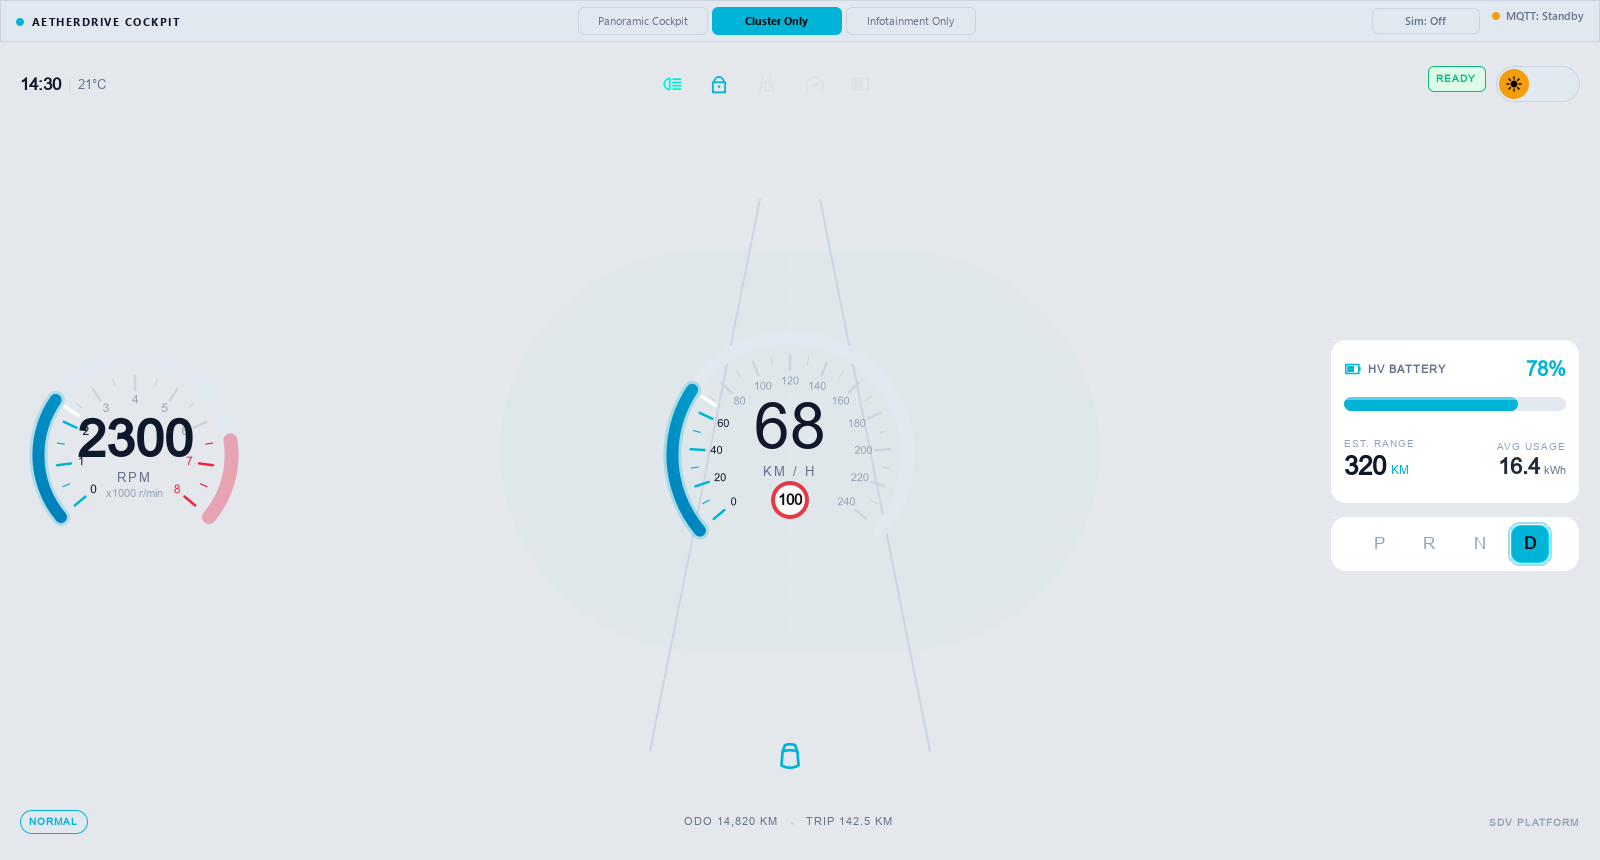
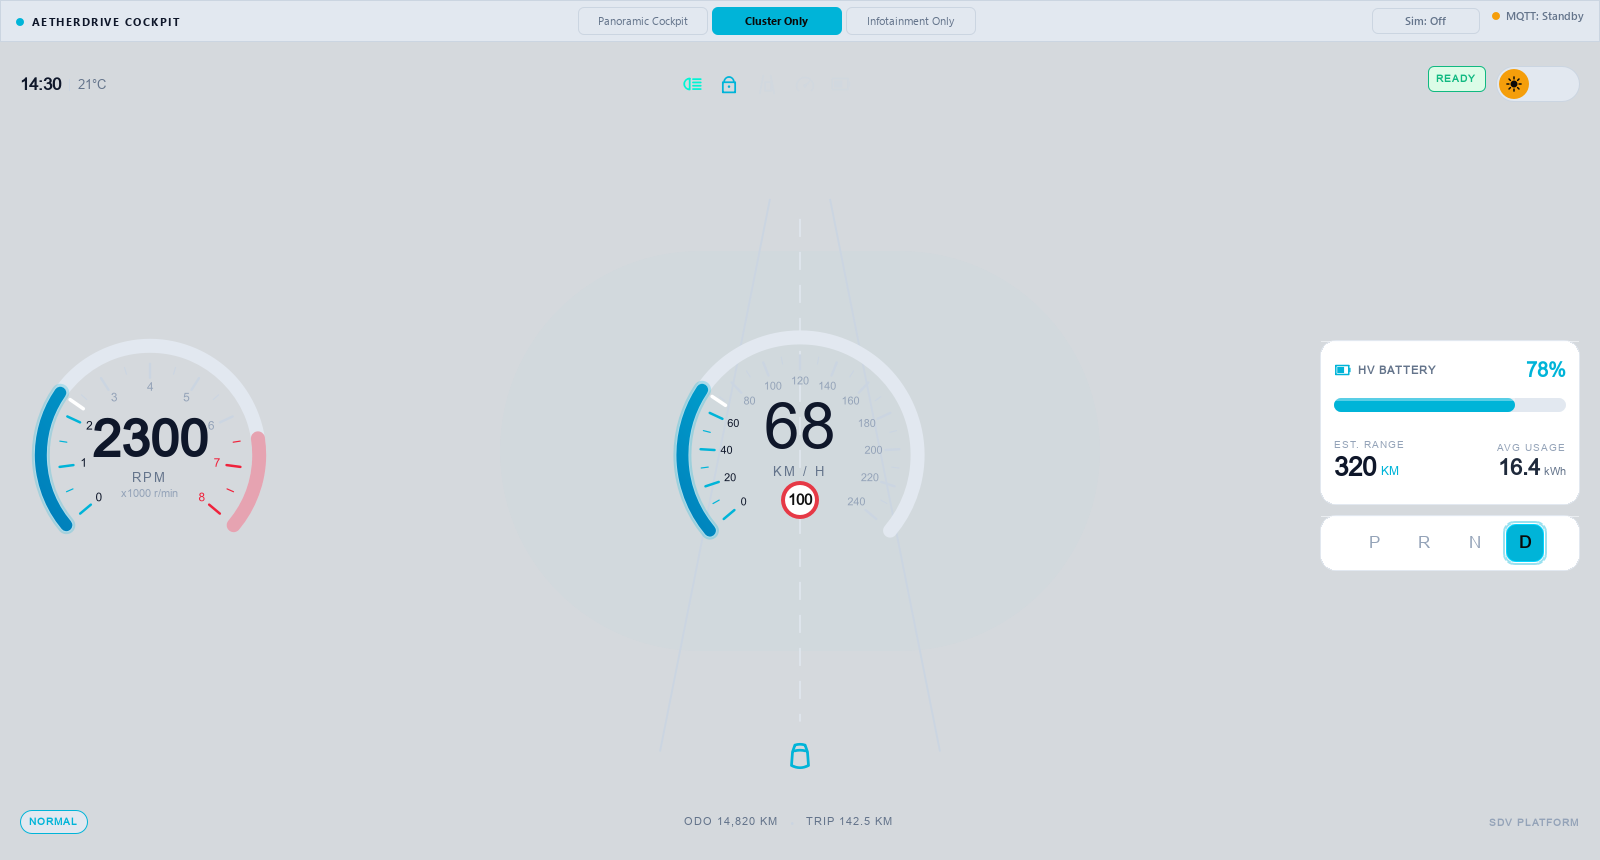
fix(hmi): responsive layout adaptation, canvas antialiasing, and robust mqtt retry loop

diff --git a/hmi/qml/infotainment/HomeScreen.qml b/hmi/qml/infotainment/HomeScreen.qml
@@ -39,6 +39,7 @@ Item {
             Item { Layout.fillWidth: true }
 
             AetherCard {
+                visible: root.width >= 480
                 implicitWidth: 160
                 implicitHeight: 40
                 isNightMode: root.isNightMode
@@ -104,6 +105,7 @@ Item {
                         Item { Layout.fillWidth: true }
                         Text {
                             text: "18 MIN REMAINING"
+                            visible: root.width >= 480
                             font.pixelSize: 11
                             font.weight: Font.Bold
                             font.family: "Segoe UI, Inter, sans-serif"
@@ -113,17 +115,21 @@ Item {
 
                     Text {
                         text: "Tech Innovation Hub"
-                        font.pixelSize: 19
+                        font.pixelSize: root.width < 500 ? 16 : 19
                         font.weight: Font.Bold
                         font.family: "Segoe UI, Inter, sans-serif"
                         color: root.isNightMode ? "#FFFFFF" : "#0F172A"
+                        elide: Text.ElideRight
+                        Layout.fillWidth: true
                     }
 
                     Text {
                         text: "In 400m turn right onto Quantum Boulevard"
-                        font.pixelSize: 13
+                        font.pixelSize: root.width < 500 ? 11 : 13
                         font.family: "Segoe UI, Inter, sans-serif"
                         color: root.isNightMode ? "#94A3B8" : "#64748B"
+                        elide: Text.ElideRight
+                        Layout.fillWidth: true
                     }
 
                     Item { Layout.fillHeight: true }
@@ -187,19 +193,24 @@ Item {
                         }
 
                         Column {
+                            Layout.fillWidth: true
                             spacing: 2
                             Text {
                                 text: "Starlight Velocity"
-                                font.pixelSize: 17
+                                font.pixelSize: root.width < 500 ? 15 : 17
                                 font.weight: Font.Bold
                                 font.family: "Segoe UI, Inter, sans-serif"
                                 color: root.isNightMode ? "#FFFFFF" : "#0F172A"
+                                elide: Text.ElideRight
+                                width: parent.width
                             }
                             Text {
                                 text: "CyberSynth Orchestra • Hi-Res Audio"
-                                font.pixelSize: 12
+                                font.pixelSize: root.width < 500 ? 11 : 12
                                 font.family: "Segoe UI, Inter, sans-serif"
                                 color: root.isNightMode ? "#94A3B8" : "#64748B"
+                                elide: Text.ElideRight
+                                width: parent.width
                             }
                         }
                     }
@@ -254,7 +265,7 @@ Item {
 
                     RowLayout {
                         Layout.fillWidth: true
-                        spacing: 24
+                        spacing: root.width < 500 ? 12 : 24
 
                         Column {
                             Text {
@@ -265,7 +276,7 @@ Item {
                             }
                             Text {
                                 text: "21.5°C"
-                                font.pixelSize: 22
+                                font.pixelSize: root.width < 500 ? 18 : 22
                                 font.weight: Font.Bold
                                 color: root.isNightMode ? "#FFFFFF" : "#0F172A"
                             }
@@ -286,7 +297,7 @@ Item {
                             }
                             Text {
                                 text: "22.0°C"
-                                font.pixelSize: 22
+                                font.pixelSize: root.width < 500 ? 18 : 22
                                 font.weight: Font.Bold
                                 color: root.isNightMode ? "#FFFFFF" : "#0F172A"
                             }
@@ -324,28 +335,34 @@ Item {
                             iconColor: "#10B981"
                         }
                         Text {
-                            text: "SOFTWARE DEFINED VEHICLE"
+                            text: root.width < 500 ? "SDV STATUS" : "SOFTWARE DEFINED VEHICLE"
                             font.pixelSize: 11
                             font.weight: Font.DemiBold
                             font.letterSpacing: 1
                             font.family: "Segoe UI, Inter, sans-serif"
                             color: root.isNightMode ? "#94A3B8" : "#64748B"
+                            elide: Text.ElideRight
+                            Layout.fillWidth: true
                         }
                     }
 
                     Text {
                         text: "Firmware v2.4.0 Ready"
-                        font.pixelSize: 18
+                        font.pixelSize: root.width < 500 ? 15 : 18
                         font.weight: Font.Bold
                         font.family: "Segoe UI, Inter, sans-serif"
                         color: root.isNightMode ? "#FFFFFF" : "#0F172A"
+                        elide: Text.ElideRight
+                        Layout.fillWidth: true
                     }
 
                     Text {
                         text: "Enhanced autonomous lane assist & cockpit visualizer"
-                        font.pixelSize: 12
+                        font.pixelSize: root.width < 500 ? 11 : 12
                         font.family: "Segoe UI, Inter, sans-serif"
                         color: root.isNightMode ? "#94A3B8" : "#64748B"
+                        elide: Text.ElideRight
+                        Layout.fillWidth: true
                     }
 
                     Item { Layout.fillHeight: true }

diff --git a/hmi/qml/cluster/ClusterView.qml b/hmi/qml/cluster/ClusterView.qml
@@ -41,8 +41,8 @@ Rectangle {
 
     ColumnLayout {
         anchors.fill: parent
-        anchors.margins: 20
-        spacing: 12
+        anchors.margins: root.width < 750 ? 12 : 20
+        spacing: root.width < 750 ? 8 : 12
 
         // ================= TOP BAR =================
         RowLayout {
@@ -132,12 +132,14 @@ Rectangle {
         RowLayout {
             Layout.fillWidth: true
             Layout.fillHeight: true
-            spacing: 12
+            spacing: root.width < 750 ? 6 : 12
 
             // LEFT: Tachometer
             Item {
-                Layout.preferredWidth: 230
-                Layout.maximumWidth: 250
+                Layout.preferredWidth: root.width < 750 ? 180 : 230
+                Layout.minimumWidth: 140
+                Layout.maximumWidth: 260
+                Layout.fillWidth: true
                 Layout.fillHeight: true
                 Layout.alignment: Qt.AlignVCenter
 
@@ -153,7 +155,7 @@ Rectangle {
             Item {
                 Layout.fillWidth: true
                 Layout.fillHeight: true
-                Layout.minimumWidth: 240
+                Layout.minimumWidth: 170
                 Layout.alignment: Qt.AlignVCenter
 
                 // ADAS Road Perspective Lane Canvas
@@ -228,12 +230,13 @@ Rectangle {
 
             // RIGHT: Battery/Range Widget & Gear Indicator
             ColumnLayout {
-                Layout.preferredWidth: 240
-                Layout.maximumWidth: 250
-                Layout.minimumWidth: 230
+                Layout.preferredWidth: root.width < 750 ? 180 : 240
+                Layout.minimumWidth: 140
+                Layout.maximumWidth: 260
+                Layout.fillWidth: true
                 Layout.fillHeight: true
                 Layout.alignment: Qt.AlignVCenter
-                spacing: 12
+                spacing: 10
 
                 BatteryRangeWidget {
                     Layout.fillWidth: true

diff --git a/hmi/qml/infotainment/ClimateScreen.qml b/hmi/qml/infotainment/ClimateScreen.qml
@@ -284,14 +284,14 @@ Item {
                     color: root.isNightMode ? "#94A3B8" : "#64748B"
                 }
 
-                Row {
+                RowLayout {
                     Layout.fillWidth: true
                     spacing: 8
                     Repeater {
                         model: 5
                         Rectangle {
-                            width: (parent.width - 32) / 5
-                            height: 16
+                            Layout.fillWidth: true
+                            Layout.preferredHeight: 16
                             radius: 4
                             color: (index < root.fanSpeed) ? root.accentColor : (root.isNightMode ? "#1E2632" : "#E2E8F0")
 

diff --git a/hmi/qml/infotainment/MediaScreen.qml b/hmi/qml/infotainment/MediaScreen.qml
@@ -278,8 +278,9 @@ Item {
             }
         }
 
-        // RIGHT: Playlist Queue
+        // RIGHT: Playlist Queue (Responsive: shown on wider viewports)
         AetherCard {
+            visible: root.width >= 560
             Layout.preferredWidth: 280
             Layout.fillHeight: true
             isNightMode: root.isNightMode

diff --git a/hmi/qml/cluster/GaugeSpeedometer.qml b/hmi/qml/cluster/GaugeSpeedometer.qml
@@ -30,6 +30,8 @@ Item {
     Canvas {
         id: dialCanvas
         anchors.fill: parent
+        antialiasing: true
+        smooth: true
         renderTarget: Canvas.FramebufferObject
         renderStrategy: Canvas.Threaded
 

diff --git a/hmi/qml/cluster/GaugeTachometer.qml b/hmi/qml/cluster/GaugeTachometer.qml
@@ -29,6 +29,8 @@ Item {
     Canvas {
         id: dialCanvas
         anchors.fill: parent
+        antialiasing: true
+        smooth: true
         renderTarget: Canvas.FramebufferObject
         renderStrategy: Canvas.Threaded
 

diff --git a/hmi/qml/cluster/WarningBar.qml b/hmi/qml/cluster/WarningBar.qml
@@ -24,7 +24,7 @@ Item {
     // Telltale Icon Row
     RowLayout {
         anchors.centerIn: parent
-        spacing: 24
+        spacing: 14
 
         // 1. Headlights
         AetherIcon {

diff --git a/hmi/hmi_runner.py b/hmi/hmi_runner.py
@@ -169,14 +169,33 @@ class MqttBridge(QObject):
         self.host = host
         self.port = port
         self.client = None
+        self._is_connected = False
+        self._retry_timer = QTimer(self)
+        self._retry_timer.setInterval(6000)
+        self._retry_timer.timeout.connect(self._check_connection)
 
     def start(self):
+        self._init_client()
+        self._retry_timer.start()
+
+    def _init_client(self):
+        if self._is_connected:
+            return
         try:
+            if self.client:
+                try:
+                    self.client.loop_stop()
+                    self.client.disconnect()
+                except Exception:
+                    pass
+
             try:
                 self.client = mqtt.Client(mqtt.CallbackAPIVersion.VERSION2, "AetherDrive-HMI")
             except AttributeError:
                 self.client = mqtt.Client("AetherDrive-HMI")
 
+            # Set exponential backoff (1s to 30s)
+            self.client.reconnect_delay_set(min_delay=1, max_delay=30)
             self.client.on_connect = self.on_connect
             self.client.on_disconnect = self.on_disconnect
             self.client.on_message = self.on_message
@@ -185,20 +204,29 @@ class MqttBridge(QObject):
             self.client.connect_async(self.host, self.port, 60)
             self.client.loop_start()
         except Exception as e:
-            print(f"[HMI-MQTT] Warning: Could not connect to broker ({e})", flush=True)
+            print(f"[HMI-MQTT] Connection attempt failed: {e}. Will retry in background.", flush=True)
+            self._is_connected = False
+            self.connectionStatus.emit(False)
+
+    def _check_connection(self):
+        if not self._is_connected:
+            self._init_client()
 
     def on_connect(self, client, userdata, flags, rc, properties=None):
         if rc == 0:
             print(f"[HMI-MQTT] Connected to broker successfully.", flush=True)
+            self._is_connected = True
             client.subscribe(TOPIC_DATA, qos=0)
             client.subscribe(TOPIC_ALERT, qos=1)
             self.connectionStatus.emit(True)
         else:
             print(f"[HMI-MQTT] Connection returned code {rc}", flush=True)
+            self._is_connected = False
             self.connectionStatus.emit(False)
 
     def on_disconnect(self, client, userdata, disconnect_flags_or_rc, reason_code=None, properties=None):
-        print(f"[HMI-MQTT] Disconnected from broker.", flush=True)
+        print(f"[HMI-MQTT] Disconnected from broker. Auto-reconnecting...", flush=True)
+        self._is_connected = False
         self.connectionStatus.emit(False)
 
     def on_message(self, client, userdata, msg):
@@ -209,6 +237,7 @@ class MqttBridge(QObject):
             print(f"[HMI-MQTT] Decode error: {e}", flush=True)
 
     def stop(self):
+        self._retry_timer.stop()
         if self.client:
             self.client.loop_stop()
             self.client.disconnect()

diff --git a/simulator/vehicle_simulator.py b/simulator/vehicle_simulator.py
@@ -52,12 +52,19 @@ class VehicleSimulator:
 
     def connect_mqtt(self):
         try:
-            # Compatible with both paho-mqtt v1.x and v2.x
+            if self.client:
+                try:
+                    self.client.loop_stop()
+                    self.client.disconnect()
+                except Exception:
+                    pass
+
             try:
                 self.client = mqtt.Client(mqtt.CallbackAPIVersion.VERSION2, "AetherDrive-Simulator")
             except AttributeError:
                 self.client = mqtt.Client("AetherDrive-Simulator")
 
+            self.client.reconnect_delay_set(min_delay=1, max_delay=30)
             self.client.on_connect = self.on_connect
             self.client.on_disconnect = self.on_disconnect
             
@@ -65,7 +72,7 @@ class VehicleSimulator:
             self.client.connect_async(self.broker_host, self.broker_port, 60)
             self.client.loop_start()
         except Exception as e:
-            print(f"[SIMULATOR] Warning: Could not connect to MQTT broker ({e}). Will run offline mode.")
+            print(f"[SIMULATOR] Warning: Could not connect to MQTT broker ({e}). Will retry automatically.")
 
     def update_physics(self, dt=0.1):
         self.time_elapsed += dt
@@ -160,6 +167,9 @@ class VehicleSimulator:
                         }), qos=1)
 
                 counter += 1
+                if not self.connected and counter % 50 == 0:
+                    self.connect_mqtt()
+
                 if counter % 10 == 0:  # Log to console once per second
                     status = "CONNECTED" if self.connected else "BROADCASTING"
                     alert_tag = f" | [!] {packet['alert']}" if packet["alert"] else ""
